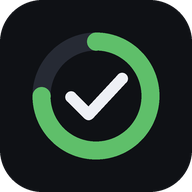
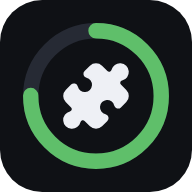
Add files via upload

diff --git a/index.html b/index.html
@@ -2,15 +2,15 @@
 <html lang="pt-BR">
 <head>
 <meta charset="UTF-8">
-<meta name="viewport" content="width=device-width, initial-scale=1, viewport-fit=cover">
+<meta name="viewport" content="width=device-width, initial-scale=1, maximum-scale=1, user-scalable=no, viewport-fit=cover">
 <meta name="theme-color" content="#0f1115" media="(prefers-color-scheme: dark)">
 <meta name="theme-color" content="#f3f4f7" media="(prefers-color-scheme: light)">
 <meta name="apple-mobile-web-app-capable" content="yes">
 <meta name="apple-mobile-web-app-status-bar-style" content="black-translucent">
 <meta name="apple-mobile-web-app-title" content="Jogos do Dia">
 <title>Jogos do Dia</title>
-<link rel="icon" id="favicon" type="image/png" href="icon-192.png">
-<link rel="apple-touch-icon" href="apple-touch-icon.png">
+<link rel="icon" id="favicon" type="image/png" href="icon-192.png?v=4">
+<link rel="apple-touch-icon" href="apple-touch-icon.png?v=4">
 <link rel="manifest" href="manifest.json">
 <link rel="preconnect" href="https://fonts.googleapis.com">
 <link rel="preconnect" href="https://fonts.gstatic.com" crossorigin>
@@ -45,7 +45,10 @@
     }
   }
   * { box-sizing: border-box; -webkit-tap-highlight-color: transparent; }
-  html { background: var(--bg); }
+  /* sem zoom por dois toques: o navegador trata cada toque como clique imediato */
+  html, body, a, button { touch-action: manipulation; }
+  html { background: var(--bg); -webkit-text-size-adjust: 100%; }
+  body { -webkit-user-select: none; user-select: none; }
   body {
     margin: 0 auto;
     max-width: 560px;
@@ -409,6 +412,8 @@ function render() {
 }
 
 /* ---------- Ícone da aba: anel de progresso desenhado ao vivo ---------- */
+// peça "puzzle" do Lucide (https://lucide.dev, licença ISC)
+const PUZZLE_PATH = new Path2D("M15.39 4.39a1 1 0 0 0 1.68-.474 2.5 2.5 0 1 1 3.014 3.015 1 1 0 0 0-.474 1.68l1.683 1.682a2.414 2.414 0 0 1 0 3.414L19.61 15.39a1 1 0 0 1-1.68-.474 2.5 2.5 0 1 0-3.014 3.015 1 1 0 0 1 .474 1.68l-1.683 1.682a2.414 2.414 0 0 1-3.414 0L8.61 19.61a1 1 0 0 0-1.68.474 2.5 2.5 0 1 1-3.014-3.015 1 1 0 0 0 .474-1.68l-1.683-1.682a2.414 2.414 0 0 1 0-3.414L4.39 8.61a1 1 0 0 1 1.68.474 2.5 2.5 0 1 0 3.014-3.015 1 1 0 0 1-.474-1.68l1.683-1.682a2.414 2.414 0 0 1 3.414 0z");
 function drawFavicon(n, total) {
   const S = 128, c = document.createElement("canvas");
   c.width = c.height = S;
@@ -417,7 +422,8 @@ function drawFavicon(n, total) {
   // fundo arredondado: escuro durante o dia, verde quando tudo está feito
   x.fillStyle = complete ? "#5fbf6a" : "#0f1115";
   x.beginPath(); x.roundRect(0, 0, S, S, 28); x.fill();
-  const r = 40, w = 14;
+  // mesma geometria do ícone do app: anel grande, peça "puzzle" do Lucide preenchida
+  const w = S * 0.08, r = S * 0.38 - w / 2;
   x.lineWidth = w; x.lineCap = "round";
   x.strokeStyle = complete ? "rgba(255,255,255,.35)" : "#262a34";
   x.beginPath(); x.arc(S/2, S/2, r, 0, Math.PI * 2); x.stroke();
@@ -425,10 +431,14 @@ function drawFavicon(n, total) {
     x.strokeStyle = complete ? "#ffffff" : "#5fbf6a";
     x.beginPath(); x.arc(S/2, S/2, r, -Math.PI/2, -Math.PI/2 + Math.PI * 2 * n / total); x.stroke();
   }
-  if (complete) {
-    x.strokeStyle = "#ffffff"; x.lineWidth = 11; x.lineJoin = "round";
-    x.beginPath(); x.moveTo(47, 65); x.lineTo(59, 77); x.lineTo(82, 52); x.stroke();
-  }
+  const size = S * 0.40, scale = size / 24;
+  x.save();
+  x.translate((S - size) / 2, (S - size) / 2);
+  x.scale(scale, scale);
+  x.fillStyle = x.strokeStyle = complete ? "#ffffff" : "#eef0f5";
+  x.lineWidth = 0.5; x.lineJoin = "round"; x.lineCap = "round";
+  x.fill(PUZZLE_PATH); x.stroke(PUZZLE_PATH);
+  x.restore();
   $("favicon").href = c.toDataURL("image/png");
 }
 

diff --git a/sw.js b/sw.js
@@ -1,6 +1,6 @@
 // Service worker do Jogos do Dia.
 // Deixa o painel instalável e funcionando offline (sempre tenta a versão mais nova primeiro).
-const CACHE = "jogos-do-dia-v1";
+const CACHE = "jogos-do-dia-v4";
 const FILES = ["./", "./index.html", "./manifest.json", "./icon-192.png", "./icon-512.png", "./apple-touch-icon.png"];
 
 self.addEventListener("install", e => {

diff --git a/README.md b/README.md
@@ -74,3 +74,7 @@ Edite o array `GAMES` no início do `<script>` em `index.html`:
 ## Dica
 
 No celular, abra o painel e use **"Adicionar à tela inicial"** no menu do navegador. Ele vira um ícone de app e abre em tela cheia.
+
+## Créditos
+
+A peça de quebra-cabeça do ícone é o ícone "puzzle" do [Lucide](https://lucide.dev), preenchido, usado sob a licença ISC.
